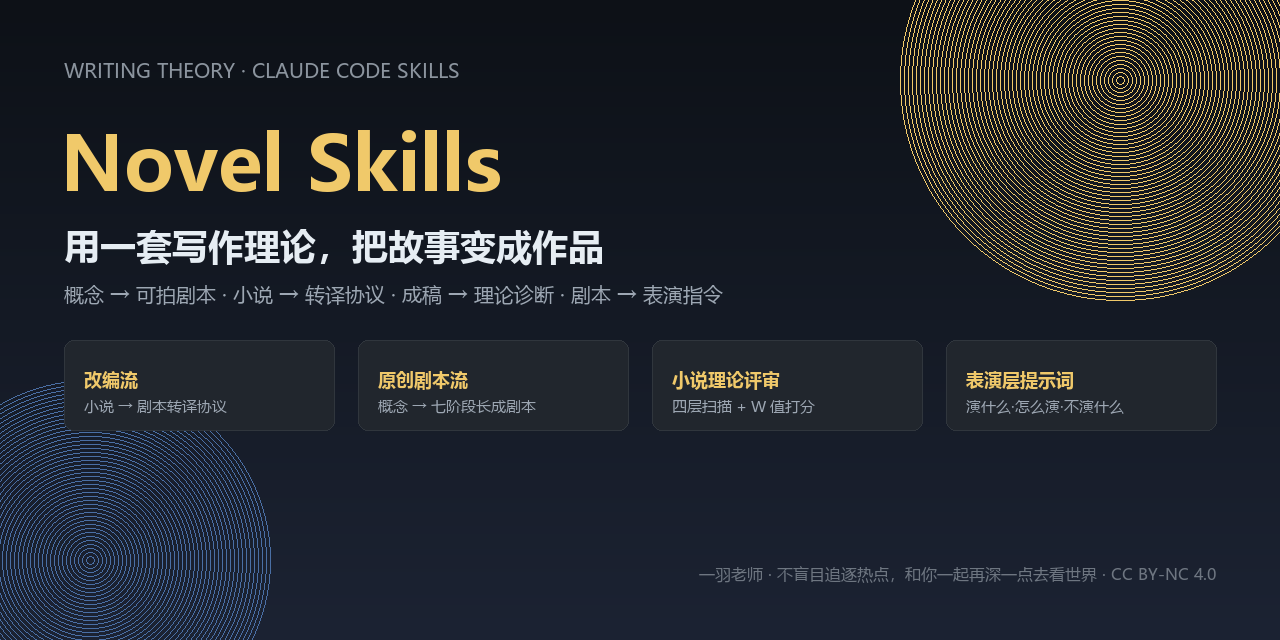
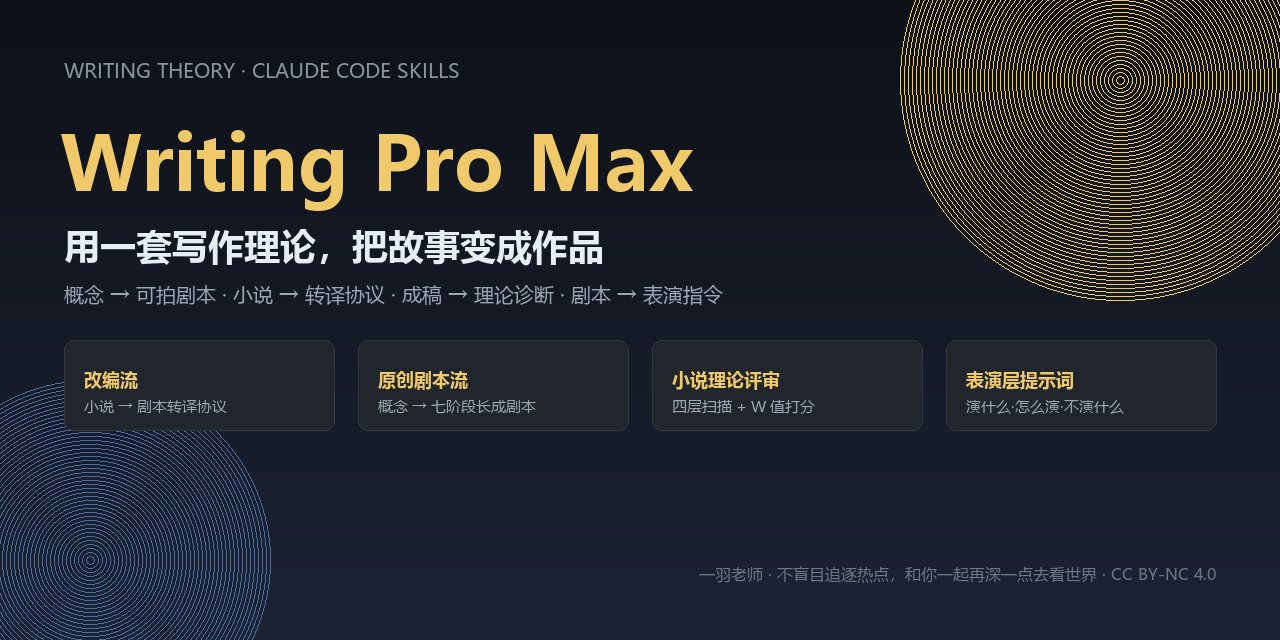
品牌改名：Novel Skills → Writing Pro Max（写作满配版）
- README（中英）：标题/安装命令更新
- banner.svg / social-preview.png / plugin.json / marketplace.json / LICENSE 同步
- 仓库将重命名为 writing-pro-max（旧 URL 自动重定向）

Changed region(s): [[0.0312, 0.1875, 0.5625, 0.3438]]

diff --git a/scripts/make-social-preview.py b/scripts/make-social-preview.py
@@ -30,7 +30,7 @@ def font(size, bold=False):
 d.text((64, 56), "WRITING THEORY · CLAUDE CODE SKILLS", font=font(20), fill="#8b949e")
 
 # 主标题
-d.text((60, 110), "Novel Skills", font=font(76, bold=True), fill="#f0c96a")
+d.text((60, 110), "Writing Pro Max", font=font(76, bold=True), fill="#f0c96a")
 d.text((64, 220), "用一套写作理论，把故事变成作品", font=font(36, bold=True), fill="#e6edf3")
 d.text((64, 280), "概念 → 可拍剧本 · 小说 → 转译协议 · 成稿 → 理论诊断 · 剧本 → 表演指令",
        font=font(20), fill="#9da7b3")

diff --git a/README.en.md b/README.en.md
@@ -2,7 +2,7 @@
 
 <img src="banner.svg" alt="Novel Skills" width="100%">
 
-# Novel Skills
+# Writing Pro Max
 
 ![Version](https://img.shields.io/badge/version-v1.0.0-gold)
 ![License](https://img.shields.io/badge/license-CC--BY--NC--4.0-blue)
@@ -115,8 +115,8 @@ Novel Skills brings these judgments into every real act of creation.
 **Option 1: Plugin marketplace (recommended)**
 
 ```text
-/plugin marketplace add juemin4-source/novel-skills
-/plugin install novel-skills@novel-skills
+/plugin marketplace add juemin4-source/writing-pro-max
+/plugin install writing-pro-max@writing-pro-max
 ```
 
 **Option 2: Manual copy**

diff --git a/README.md b/README.md
@@ -2,7 +2,7 @@
 
 **中文** | [English](README.en.md)
 
-# Novel Skills
+# Writing Pro Max
 
 ![Version](https://img.shields.io/badge/version-v1.0.0-gold)
 ![License](https://img.shields.io/badge/license-CC--BY--NC--4.0-blue)
@@ -116,8 +116,8 @@ Novel Skills 将这些判断带进每一次真实创作。
 **方式一：插件市场安装（推荐）**
 
 ```text
-/plugin marketplace add juemin4-source/novel-skills
-/plugin install novel-skills@novel-skills
+/plugin marketplace add juemin4-source/writing-pro-max
+/plugin install writing-pro-max@writing-pro-max
 ```
 
 **方式二：手动复制**
